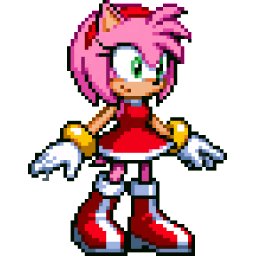
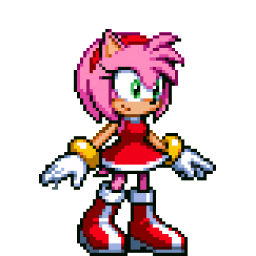
Art: character heights from the official height chart; new Sonic & Tails
Amy, Mighty and Ray scaled to their heights relative to knuckles.png instead of
filling the canvas. The pairs share one Tails at one scale, separated from each
partner, with the partner at its own height. sonictails.png now comes from the
same set as the other pairs.

Claude-Session: https://claude.ai/code/session_017MbmirdVukKASypwWatiSN

diff --git a/art/README.md b/art/README.md
@@ -33,8 +33,8 @@ which redraws rsdkv4-wasm's load-game screen (craft's slot cards).
 
 | Files | Source | Changes |
 | --- | --- | --- |
-| `players/{sonic,tails,knuckles,sonictails}.png` | rsdkv4-wasm `src/craft/assets/player-*.svg` (commit `a53c681`) | SVG rendered to 256 x 256 PNG with a transparent background (Chromium) |
-| `players/{amy,amytails,knucklestails,mighty,ray}.png` | Provided by the project owner on 2026-11-26 as 2000 x 2000 JPEGs of pixel art on white; where they come from is not recorded yet | Pixel grid (about 27.5 px per pixel) sampled back to the sprite, cell by cell (median of each cell's centre, which drops the JPEG noise); the white background connected to the border made transparent; scaled to fit 256 x 256 (bottom-aligned, centred) with a transparent background. Plus characters (Amy, Amy & Tails, Knuckles & Tails: Sonic CD and/or Sonic 1/2; Mighty, Ray: Sonic Mania); not used by the code yet |
+| `players/{sonic,tails,knuckles}.png` | rsdkv4-wasm `src/craft/assets/player-*.svg` (commit `a53c681`) | SVG rendered to 256 x 256 PNG with a transparent background (Chromium) |
+| `players/{amy,mighty,ray,amytails,knucklestails,sonictails}.png` | Provided by the project owner on 2026-11-26 as 2000 x 2000 JPEGs of pixel art on white; where they come from is not recorded yet | Pixel grid (about 27.5 px per pixel) sampled back to the sprite, cell by cell (median of each cell's centre, which drops the JPEG noise); the white background connected to the border made transparent. Heights from SEGA's 2023 official height chart with `knuckles.png` (249 px) as the reference: Sonic 94.6 %, Amy 91.2 % of Knuckles; Mighty as Sonic and Ray as Amy (not in the chart). The pairs share one Tails drawing: it was separated from the partner (pixels where at least two of the three images agree) and drawn at one scale in all three, with each partner at its own height in front. 256 x 256, transparent, feet on the bottom edge, centred. Plus characters except Sonic & Tails, which replaces the rsdkv4-wasm one; not used by the code yet |
 | `stages/sonic1/zone-1..7.png`, `stages/sonic1/special.png` | rsdkv4-wasm `src/craft/assets/stages-sonic1/` | none (140 x 80 PNG) |
 | `stages/sonic2/zone-1..10.png`, `stages/sonic2/special.png` | rsdkv4-wasm `src/craft/assets/stages-sonic2/` | none (140 x 80 PNG) |
 

diff --git a/RECORD/2026-11-20.native-multi-engine-launcher.WIP.md b/RECORD/2026-11-20.native-multi-engine-launcher.WIP.md
@@ -1151,3 +1151,23 @@ scope changed: Sonic 3 A.I.R. as an official separate program, RSDKv5 on Android
   has character choice in the in-game menu (values 0-3); the save/start value for Amy
   in Sonic 1/2 and the Sonic CD player list need checking with Plus game data; Mania has
   no character picker of ours. Plus characters must stay behind `RSDKAIR_ENABLE_PLUS`.
+
+## 2026-11-26 — Character art heights from the official height chart
+
+- Owner: Amy was as tall as Knuckles; adjust the characters' heights using SEGA's 2023
+  height chart, and use a new Sonic & Tails image (same Tails drawing as the other pairs).
+- Measured on the chart (ground y 834, line tops): Knuckles 294.5, Sonic 278.5 (94.6 %),
+  Amy 268.5 (91.2 %), Tails 225.5 (76.6 %). Mighty and Ray are not in the chart: Mighty
+  set to Sonic's height, Ray to Amy's (assumption, easy to change in the script).
+- Reference: `knuckles.png` (Knuckles 249 px tall, about 3.5 px per sprite pixel, the
+  scale of the existing set). Solo sprites (amy, mighty, ray) scaled so the character is
+  its chart height; first conversion had filled 256 px each, hiding the differences.
+- Pairs: the three source images share the same Tails at the same place. Tails was
+  separated by voting (cells where at least two images agree), limited to the part
+  connected to his face right of column 36 (the partners' faces also coincide); each
+  partner is the rest of its image (largest connected part). Tails is drawn at one scale
+  in all pairs and each partner at its height in front, anchored at its right edge on the
+  ground. `sonictails.png` replaced by the owner's (consistent with the other pairs);
+  `sonic.png` and `tails.png` stay from rsdkv4-wasm.
+- Checked on a sheet with lines at the chart heights and zoomed on the overlaps; a couple
+  of single stray light pixels remain next to Sonic's fist and Amy's hand.
